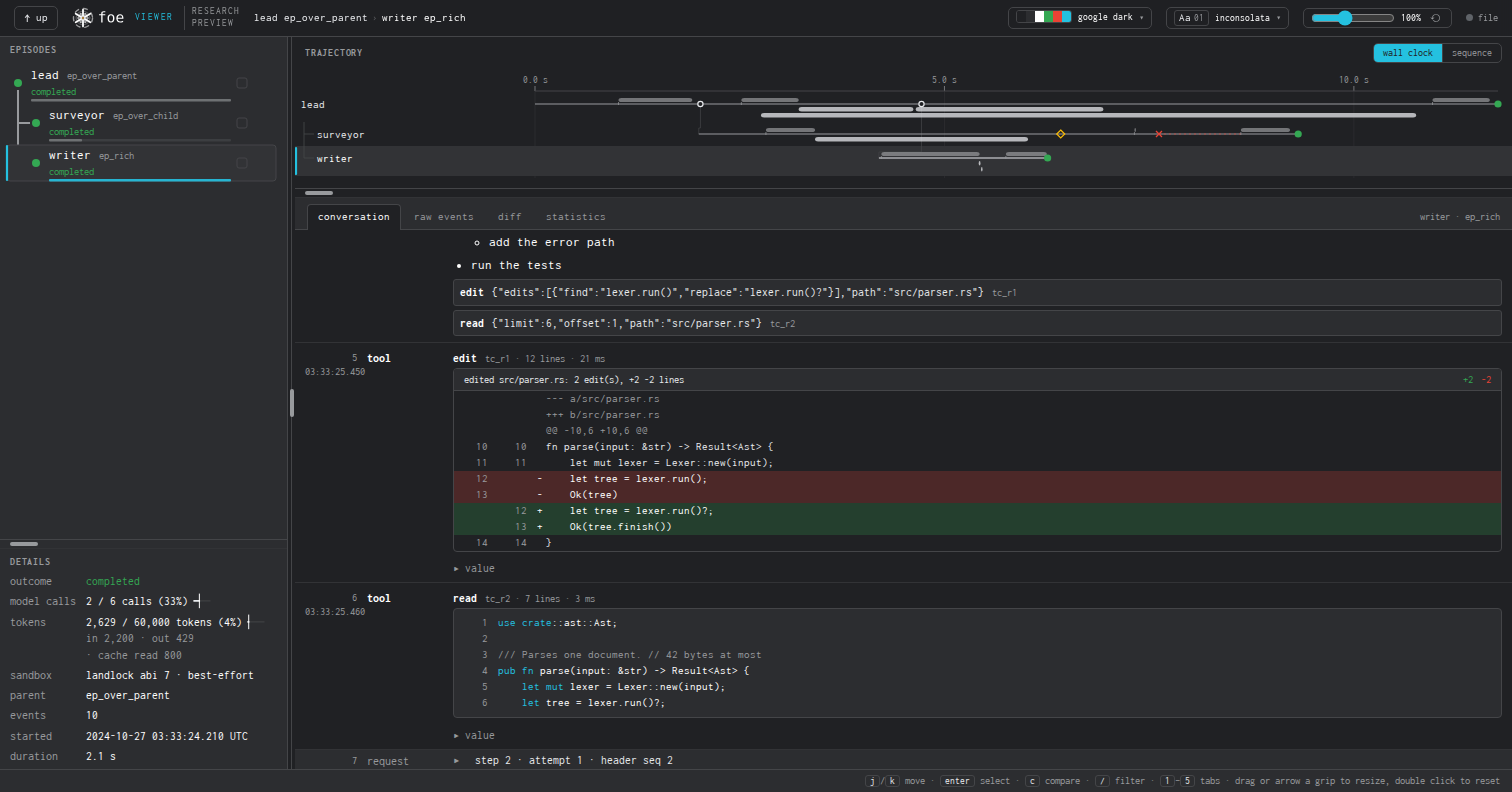
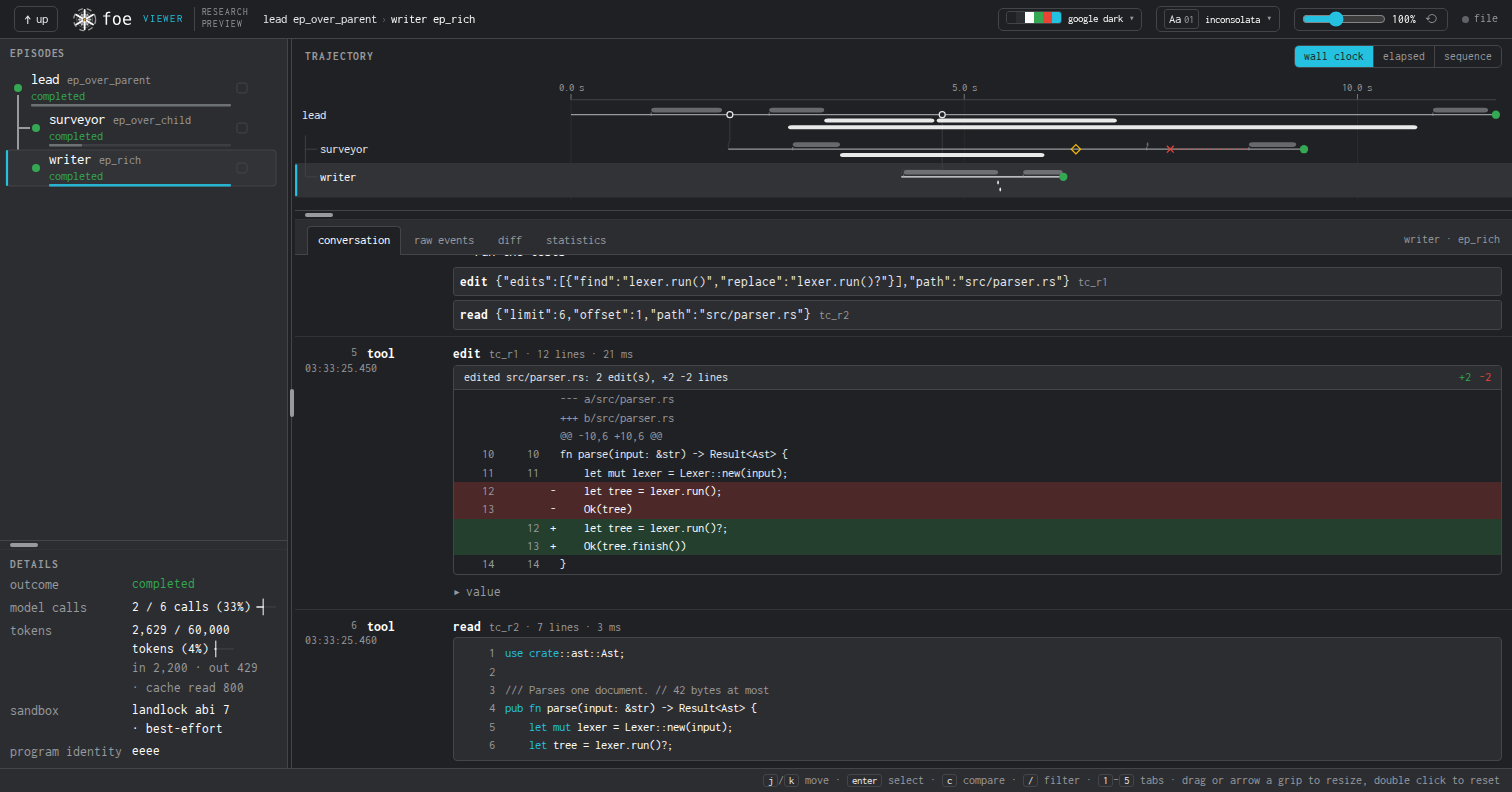
Re-record the three proof screenshots
They now show the raised default text size, the trajectory's three ink
weights over its request spans, node firings, and tool calls, and the
typeface picker's narrower trigger.

diff --git a/view/README.md b/view/README.md
@@ -101,8 +101,9 @@ each in one of the two default themes. `proof-light.png` and
 `proof-dark.png` show the `overlap-parent` fixture and its two children in
 `google-light` and `google-dark`: the tree with its per-row measure and the
 spine on the selected row, the rail that carries depth in the trajectory's
-label column, the trajectory's request spans, a retry with the backoff it
-imposed, and a turn holding a diff and a fenced block. `proof-one-episode.png`
+label column, the trajectory's three ink weights over its request spans,
+node firings, and tool calls, a retry with the backoff it imposed, and a
+turn holding a diff and a fenced block. `proof-one-episode.png`
 shows a recorded run of this repository in `google-light`, with one root
 episode and no children, which is the ordinary case and the one where the
 trajectory's height is derived from a single row; its four request spans
